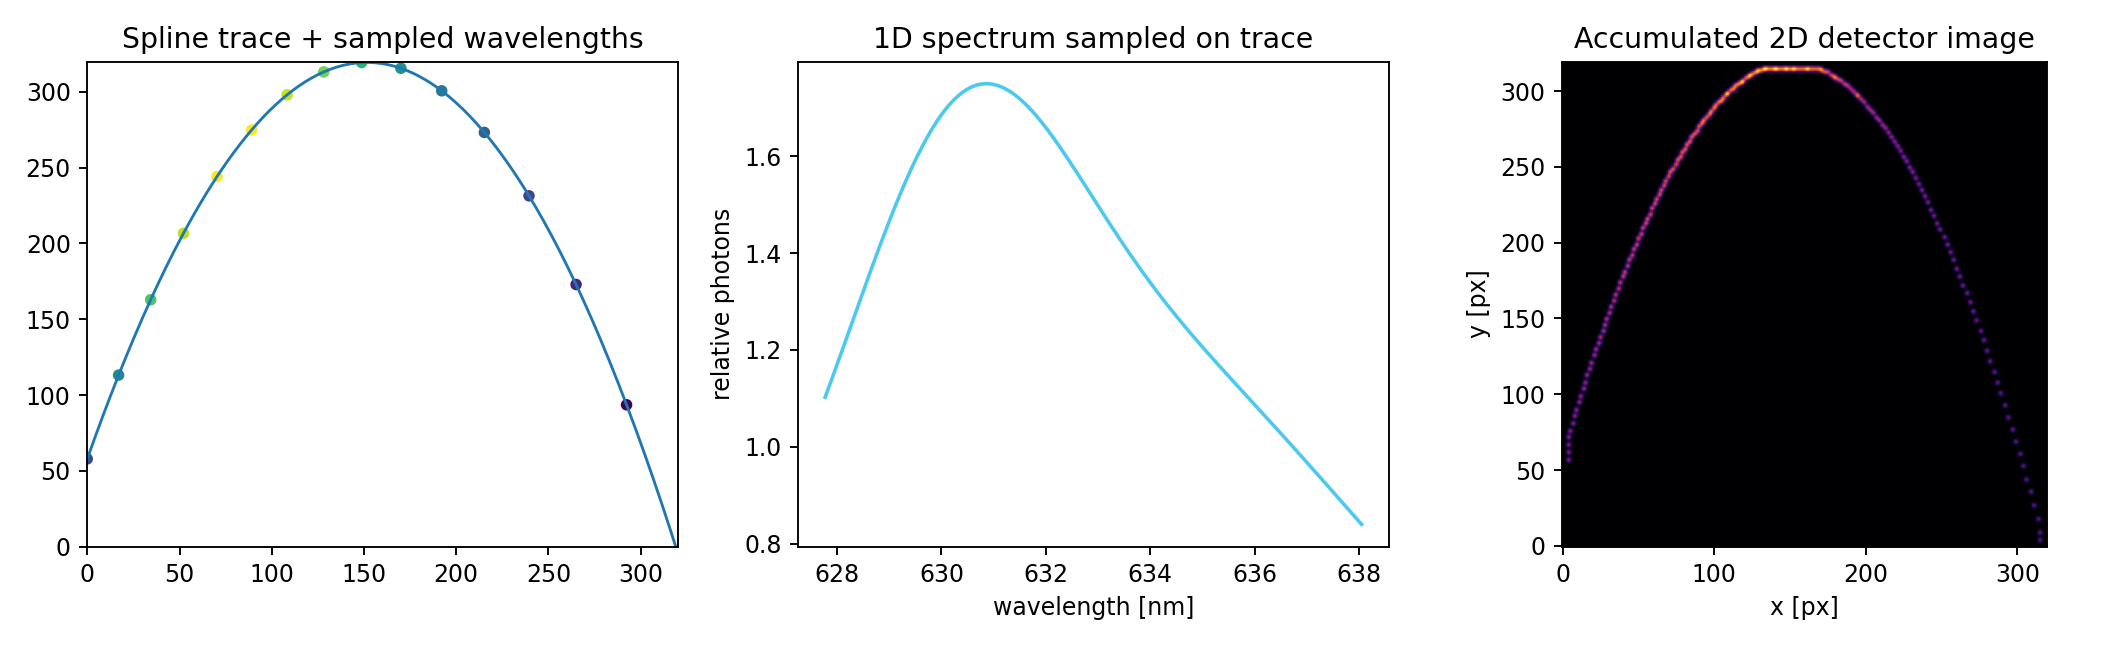
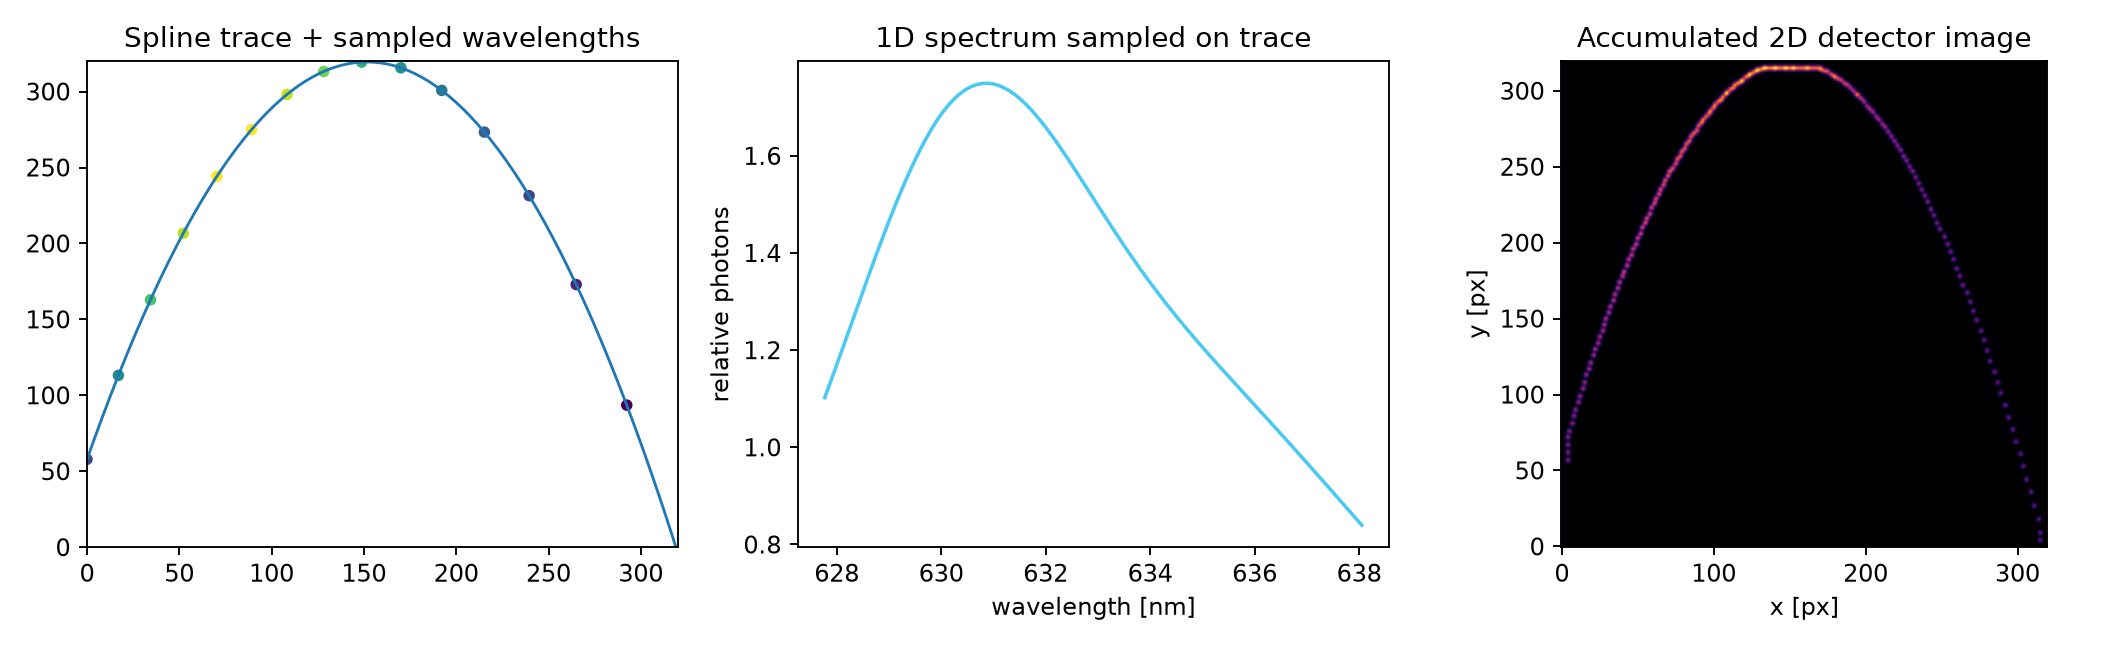
Build and publish the VROOMM website: color preview, data sources, cleanup
- Add a "Perceptual-Color Preview" card showcasing the new blue->red
  wavelength-color JPG mode, and a "Where The Data Comes From" section
  explaining the auto-fetched/bundled data sources (Zemax, BT-Settl/SVO,
  TAPAS, Gaia/SIMBAD, sky OH/NIST).
- Stop shipping detector_sim.fits/.npy and a stray tmp_preview_test.png
  into docs/assets: 200+ MB of undownloadable binaries with no purpose
  on a public static site.
- Fix a .gitignore bug: the unanchored detector_sim.fits/.npy/.png rules
  were also matching docs/assets/detector_sim.png, silently keeping the
  site's own preview image untracked (would have 404'd once published).
- Regenerate all site assets from a fresh full simulation run.

diff --git a/assets/manifest.js b/assets/manifest.js
@@ -6,28 +6,14 @@ window.VROOMM_MANIFEST = {
       "source": "detector_sim.png",
       "dest": "docs/assets/detector_sim.png",
       "web_path": "assets/detector_sim.png",
-      "bytes": 886723
+      "bytes": 918875
     },
     {
-      "name": "detector_sim.fits",
-      "source": "detector_sim.fits",
-      "dest": "docs/assets/detector_sim.fits",
-      "web_path": "assets/detector_sim.fits",
-      "bytes": 67115520
-    },
-    {
-      "name": "detector_sim.npy",
-      "source": "detector_sim.npy",
-      "dest": "docs/assets/detector_sim.npy",
-      "web_path": "assets/detector_sim.npy",
-      "bytes": 134217856
-    },
-    {
-      "name": "tmp_preview_test.png",
-      "source": "tmp_preview_test.png",
-      "dest": "docs/assets/tmp_preview_test.png",
-      "web_path": "assets/tmp_preview_test.png",
-      "bytes": 48078
+      "name": "detector_sim.jpg",
+      "source": "detector_sim.jpg",
+      "dest": "docs/assets/detector_sim.jpg",
+      "web_path": "assets/detector_sim.jpg",
+      "bytes": 981390
     },
     {
       "name": "compare_transmission_spectra.png",
@@ -46,81 +32,81 @@ window.VROOMM_MANIFEST = {
   ],
   "gallery": [
     {
+      "title": "detector_sim.png",
+      "source": "detector_sim.png",
+      "dest": "docs/assets/gallery/01_detector_sim.png",
+      "web_path": "assets/gallery/01_detector_sim.png",
+      "bytes": 918875
+    },
+    {
+      "title": "20260527T220000_FP.png",
+      "source": "night_output/260527/20260527T220000_FP.png",
+      "dest": "docs/assets/gallery/02_20260527T220000_FP.png",
+      "web_path": "assets/gallery/02_20260527T220000_FP.png",
+      "bytes": 1834062
+    },
+    {
       "title": "20261027T220000_FP.png",
       "source": "night_output/261027/20261027T220000_FP.png",
-      "dest": "docs/assets/gallery/01_20261027T220000_FP.png",
-      "web_path": "assets/gallery/01_20261027T220000_FP.png",
+      "dest": "docs/assets/gallery/03_20261027T220000_FP.png",
+      "web_path": "assets/gallery/03_20261027T220000_FP.png",
       "bytes": 1258026
     },
     {
       "title": "20260727T221800_HD_173739.png",
       "source": "night_output/260727/20260727T221800_HD_173739.png",
-      "dest": "docs/assets/gallery/02_20260727T221800_HD_173739.png",
-      "web_path": "assets/gallery/02_20260727T221800_HD_173739.png",
+      "dest": "docs/assets/gallery/04_20260727T221800_HD_173739.png",
+      "web_path": "assets/gallery/04_20260727T221800_HD_173739.png",
       "bytes": 1109212
     },
     {
       "title": "20260727T220230_iota_Cyg.png",
       "source": "night_output/260727/20260727T220230_iota_Cyg.png",
-      "dest": "docs/assets/gallery/03_20260727T220230_iota_Cyg.png",
-      "web_path": "assets/gallery/03_20260727T220230_iota_Cyg.png",
+      "dest": "docs/assets/gallery/05_20260727T220230_iota_Cyg.png",
+      "web_path": "assets/gallery/05_20260727T220230_iota_Cyg.png",
       "bytes": 916198
     },
     {
       "title": "20260727T220100_UNE.png",
       "source": "night_output/260727/20260727T220100_UNE.png",
-      "dest": "docs/assets/gallery/04_20260727T220100_UNE.png",
-      "web_path": "assets/gallery/04_20260727T220100_UNE.png",
+      "dest": "docs/assets/gallery/06_20260727T220100_UNE.png",
+      "web_path": "assets/gallery/06_20260727T220100_UNE.png",
       "bytes": 120470
     },
     {
       "title": "20260727T220000_FLAT.png",
       "source": "night_output/260727/20260727T220000_FLAT.png",
-      "dest": "docs/assets/gallery/05_20260727T220000_FLAT.png",
-      "web_path": "assets/gallery/05_20260727T220000_FLAT.png",
+      "dest": "docs/assets/gallery/07_20260727T220000_FLAT.png",
+      "web_path": "assets/gallery/07_20260727T220000_FLAT.png",
       "bytes": 1172407
     },
     {
       "title": "20260805T051530_CHI_CAP.png",
       "source": "night_output/260805/20260805T051530_CHI_CAP.png",
-      "dest": "docs/assets/gallery/06_20260805T051530_CHI_CAP.png",
-      "web_path": "assets/gallery/06_20260805T051530_CHI_CAP.png",
+      "dest": "docs/assets/gallery/08_20260805T051530_CHI_CAP.png",
+      "web_path": "assets/gallery/08_20260805T051530_CHI_CAP.png",
       "bytes": 1514351
-    },
-    {
-      "title": "tmp_preview_test.png",
-      "source": "tmp_preview_test.png",
-      "dest": "docs/assets/gallery/07_tmp_preview_test.png",
-      "web_path": "assets/gallery/07_tmp_preview_test.png",
-      "bytes": 48078
     },
     {
       "title": "20260805T050000_trappist-1.png",
       "source": "night_output/260805/20260805T050000_trappist-1.png",
-      "dest": "docs/assets/gallery/08_20260805T050000_trappist-1.png",
-      "web_path": "assets/gallery/08_20260805T050000_trappist-1.png",
+      "dest": "docs/assets/gallery/09_20260805T050000_trappist-1.png",
+      "web_path": "assets/gallery/09_20260805T050000_trappist-1.png",
       "bytes": 134153
     },
     {
       "title": "20260905T050000_trappist-1.png",
       "source": "night_output/260905/20260905T050000_trappist-1.png",
-      "dest": "docs/assets/gallery/09_20260905T050000_trappist-1.png",
-      "web_path": "assets/gallery/09_20260905T050000_trappist-1.png",
+      "dest": "docs/assets/gallery/10_20260905T050000_trappist-1.png",
+      "web_path": "assets/gallery/10_20260905T050000_trappist-1.png",
       "bytes": 134415
     },
     {
       "title": "20261027T220000_Barnard_star.png",
       "source": "night_output/261027/20261027T220000_Barnard_star.png",
-      "dest": "docs/assets/gallery/10_20261027T220000_Barnard_star.png",
-      "web_path": "assets/gallery/10_20261027T220000_Barnard_star.png",
+      "dest": "docs/assets/gallery/11_20261027T220000_Barnard_star.png",
+      "web_path": "assets/gallery/11_20261027T220000_Barnard_star.png",
       "bytes": 1321045
-    },
-    {
-      "title": "detector_sim.png",
-      "source": "detector_sim.png",
-      "dest": "docs/assets/gallery/11_detector_sim.png",
-      "web_path": "assets/gallery/11_detector_sim.png",
-      "bytes": 886723
     }
   ],
   "lecture_plots": [
@@ -128,25 +114,25 @@ window.VROOMM_MANIFEST = {
       "title": "PSF construction",
       "dest": "docs/assets/lecture_psf_construction.png",
       "web_path": "assets/lecture_psf_construction.png",
-      "bytes": 45295
+      "bytes": 47784
     },
     {
       "title": "Trace geometry",
       "dest": "docs/assets/lecture_trace_map.png",
       "web_path": "assets/lecture_trace_map.png",
-      "bytes": 91478
+      "bytes": 91003
     },
     {
       "title": "Spline interpolation",
       "dest": "docs/assets/lecture_spline_sampling.png",
       "web_path": "assets/lecture_spline_sampling.png",
-      "bytes": 79501
+      "bytes": 92400
     },
     {
       "title": "2D image assembly",
       "dest": "docs/assets/lecture_image_assembly.png",
       "web_path": "assets/lecture_image_assembly.png",
-      "bytes": 120118
+      "bytes": 132983
     }
   ],
   "detector_stats": {
@@ -168,10 +154,10 @@ window.VROOMM_MANIFEST = {
         4096
       ],
       "min": 0.0,
-      "max": 1590484.75,
-      "p50": 5.205602246860508e-05,
-      "p90": 763405.09375,
-      "p99": 1430518.98125,
+      "max": 1747691.125,
+      "p50": 4.868550968240015e-05,
+      "p90": 761125.53125,
+      "p99": 1459298.2249999996,
       "path": "detector_sim.fits"
     }
   },

diff --git a/index.html b/index.html
@@ -56,6 +56,14 @@
       <p class="hint">PNG preview is true 2x2 binned and scaled to 0..2xP90.</p>
     </section>
 
+    <section class="card">
+      <h2>Perceptual-Color Preview</h2>
+      <div class="image-frame">
+        <img id="detectorColorPreview" src="assets/detector_sim.jpg" alt="Perceptual-color detector preview" />
+      </div>
+      <p class="hint">Hue = wavelength (blue &rarr; red, following the eye's spectral response). Brightness = sqrt(flux), so faint orders stay visible next to bright ones.</p>
+    </section>
+
     <section class="card span-2">
       <h2>Simulation Summary</h2>
       <div id="statsGrid" class="stats-grid"></div>
@@ -144,6 +152,18 @@
     <section class="card">
       <h2>Transmission Snapshot</h2>
       <div id="transmissionSummary" class="stats-grid"></div>
+    </section>
+
+    <section class="card span-2">
+      <h2>Where The Data Comes From</h2>
+      <p class="hint">Everything below is fetched or bundled automatically &mdash; no manual downloads needed to run the simulator.</p>
+      <ul class="feature-list">
+        <li><strong>Zemax optical design</strong> (PSF stamps + order XY maps): bundled in the repo as compressed archives, auto-extracted on first run.</li>
+        <li><strong>BT-Settl CIFIST synthetic spectra</strong>: nearest grid point to the requested Teff/logg fetched live from the SVO theoretical spectra service and cached locally.</li>
+        <li><strong>TAPAS telluric transmission</strong> (per-species H2O/CO2/CH4/O2/O3/N2O/NO2): bundled compressed FITS, auto-extracted on first run.</li>
+        <li><strong>Gaia DR3 / SIMBAD</strong>: queried live for target astrometry, parallax, and photometry during night planning.</li>
+        <li><strong>Sky OH airglow &amp; arc lamp lines</strong>: fetched from ExoMol MoLLIST-OH and NIST ASD, then cached as local line lists.</li>
+      </ul>
     </section>
 
     <section class="card">
